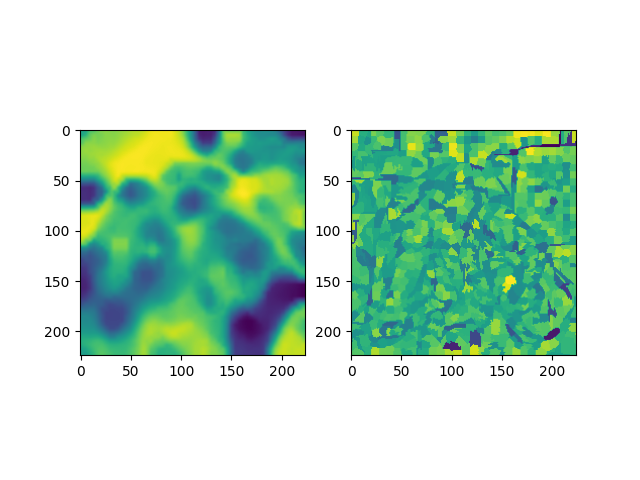
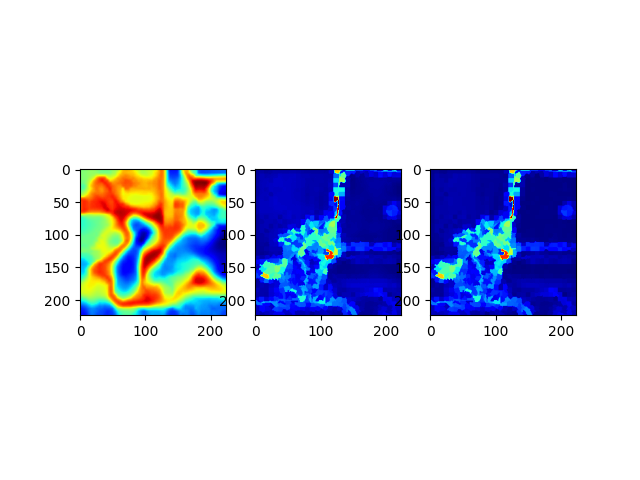
边的权重图，优化

diff --git a/clip_self_correlation.py b/clip_self_correlation.py
@@ -188,7 +188,7 @@ def build_feature_rag(vit_features, image_size=(224, 224), patch_size=16):
 
 def smooth_uncertainty_with_rag(uncertainty, rag, superpixel_labels, lambda_=0.5, iterations=10):
     """
-    使用超像素 RAG 进行熵的拉普拉斯平滑。
+    使用超像素 RAG 进行区域级别的拉普拉斯平滑，而不是单独平均后再平滑。
 
     参数：
     - uncertainty: (H, W) 形状的不确定性熵
@@ -200,27 +200,39 @@ def smooth_uncertainty_with_rag(uncertainty, rag, superpixel_labels, lambda_=0.5
     返回：
     - smoothed_uncertainty: (H, W) 形状，平滑后的不确定性熵
     """
+    H, W = uncertainty.shape
     unique_labels = np.unique(superpixel_labels)
     num_superpixels = len(unique_labels)
 
-    # 计算每个超像素区域的初始均值熵
-    superpixel_uncertainty = np.zeros(num_superpixels)
-    for idx, label in enumerate(unique_labels):
-        mask = (superpixel_labels == label)
-        superpixel_uncertainty[idx] = uncertainty[mask].mean().item()  # 计算该超像素内的熵均值
+    # 创建超像素区域的熵映射
+    superpixel_uncertainty = uncertainty.copy()
 
-    # 获取 RAG 的邻接矩阵
+    # 超像素内部进行局部平滑
+    for _ in range(iterations):
+        new_uncertainty = superpixel_uncertainty.copy()
+
+        for label in unique_labels:
+            mask = (superpixel_labels == label)
+
+            # 仅在超像素内部进行平滑 (使用超像素内部均值)
+            if np.any(mask):
+                new_uncertainty[mask] = (1 - lambda_) * superpixel_uncertainty[mask] + lambda_ * superpixel_uncertainty[mask].mean()
+
+        superpixel_uncertainty = new_uncertainty
+
+    # 通过 RAG 进行超像素间的平滑
     L = nx.normalized_laplacian_matrix(rag).toarray()
+    superpixel_flat = np.array([superpixel_uncertainty[superpixel_labels == label].mean() for label in unique_labels])
 
     # 迭代拉普拉斯平滑
     for _ in range(iterations):
-        superpixel_uncertainty = (1 - lambda_) * superpixel_uncertainty + lambda_ * L @ superpixel_uncertainty
+        superpixel_flat = (1 - lambda_) * superpixel_flat + lambda_ * L @ superpixel_flat
 
     # 传播回像素级别
     smoothed_uncertainty = np.zeros_like(uncertainty)
     for idx, label in enumerate(unique_labels):
         mask = (superpixel_labels == label)
-        smoothed_uncertainty[mask] = superpixel_uncertainty[idx]
+        smoothed_uncertainty[mask] = superpixel_flat[idx]
 
     return smoothed_uncertainty
 
@@ -249,6 +261,65 @@ def adjust_posterior_with_entropy(P, H_opt, lambda_=1.0, epsilon=0.1):
     P_new = P_adj / np.sum(P_adj, axis=0, keepdims=True)
 
     return P_new
+
+def compute_superpixel_weights(rag, superpixel_labels):
+    """
+    计算每个超像素区域的总边权重
+    :param rag: Region Adjacency Graph
+    :param superpixel_labels: 超像素标签图
+    :return: 每个超像素区域的总边权重
+    """
+    # 计算每个节点的边权重之和
+    node_weights = {node: sum(rag[node][nbr]['weight'] for nbr in rag.neighbors(node)) for node in rag.nodes()}
+    
+    # 计算每个超像素区域的总边权重
+    superpixel_weights = {node: node_weights[node] for node in rag.nodes()}
+    
+    return superpixel_weights
+
+def compute_superpixel_max(rag, superpixel_labels):
+    """
+    计算每个超像素区域的总边权重
+    :param rag: Region Adjacency Graph
+    :param superpixel_labels: 超像素标签图
+    :return: 每个超像素区域的总边权重
+    """
+    # 计算每个节点的边权重之和
+    node_weights = {node: max(rag[node][nbr]['weight'] for nbr in rag.neighbors(node)) for node in rag.nodes()}
+    
+    # 计算每个超像素区域的总边权重
+    superpixel_weights = {node: node_weights[node] for node in rag.nodes()}
+    
+    return superpixel_weights
+
+def visualize_superpixel_weights(image, superpixel_labels, superpixel_weights):
+    """
+    可视化超像素区域的边权重之和
+    :param image: 原始图像
+    :param superpixel_labels: 超像素标签
+    :param superpixel_weights: 每个超像素的边权重之和
+    """
+    # 归一化超像素边权重到 0-1
+    max_weight = max(superpixel_weights.values())
+    min_weight = min(superpixel_weights.values())
+    
+    norm_weights = {sp: (superpixel_weights[sp] - min_weight) / (max_weight - min_weight) for sp in superpixel_weights}
+    
+    # 生成颜色映射
+    cmap = plt.cm.viridis
+    colored_seg = np.zeros_like(image, dtype=np.float32)
+
+    for sp in np.unique(superpixel_labels):
+        mask = superpixel_labels == sp
+        color = cmap(norm_weights[sp])[:3]  # 获取 RGB 颜色
+        colored_seg[mask] = color
+    
+    # 显示图像
+    plt.figure(figsize=(10, 6))
+    plt.imshow(colored_seg)
+    plt.axis('off')
+    plt.title("Superpixel Edge Weight Sums")
+    plt.show()
 
 def self_clip(clip, dataset, image_size=224,eps=0.7,min=3):
     # text feature
@@ -343,15 +414,41 @@ def self_clip(clip, dataset, image_size=224,eps=0.7,min=3):
             cluster_gts.unsqueeze(0),size=(image_size,image_size),mode='bilinear',align_corners=False
         )[0] # n,H,W
 
-        # 基于熵的拉普拉斯平滑 后验预测概率
+        # 基于rag的边的权重，certainty map，去修正模型预测结果的不确定性，再温度修正预测后验概率
         #############################
         rag, superpixel_labels = build_color_rag(np.array(ori_images), n_segments=1000, compactness=10)
         p_ = cluster_gts.softmax(dim=0)
         uncertainty = -torch.sum(p_ * torch.log(p_), dim=0)
 
-        smoothed_uncertainty = smooth_uncertainty_with_rag(uncertainty.detach().cpu().numpy(), rag, superpixel_labels, lambda_=0.5, iterations=1)
-        cluster_gts = adjust_posterior_with_entropy(p_.detach().cpu().numpy(), smoothed_uncertainty)
-        cluster_gts = torch.as_tensor(cluster_gts).to("cuda")
+        # smoothed_uncertainty = smooth_uncertainty_with_rag(uncertainty.detach().cpu().numpy(), rag, superpixel_labels, lambda_=0.5, iterations=1)
+        # cluster_gts = adjust_posterior_with_entropy(p_.detach().cpu().numpy(), smoothed_uncertainty, lambda_=1, epsilon=0.1)
+        # cluster_gts = torch.as_tensor(cluster_gts).to("cuda")
+
+        superpixel_weights = compute_superpixel_weights(rag, superpixel_labels)
+        max_weight = np.max(list(superpixel_weights.values()))
+        min_weight = np.min(list(superpixel_weights.values()))
+        
+        norm_weights = {sp: (superpixel_weights[sp] - min_weight) / (max_weight - min_weight) for sp in superpixel_weights}
+        
+        edge_seg = np.zeros(uncertainty.shape, dtype=np.float32)
+        for patch_id in range(len(np.unique(superpixel_labels))):
+            mask = (superpixel_labels == patch_id)
+            edge_seg[mask] = norm_weights[patch_id]
+
+        uncertainty_weighted = uncertainty + uncertainty * torch.tensor(edge_seg).to("cuda")
+
+        cluster_gts = adjust_posterior_with_entropy(p_.detach().cpu().numpy(), uncertainty_weighted.detach().cpu().numpy(), lambda_=1, epsilon=0.1)
+        cluster_gts = torch.as_tensor(cluster_gts).to("cuda")        
+
+        
+        # plt.figure()
+        # plt.subplot(1,3,1)
+        # plt.imshow(uncertainty.detach().cpu().numpy(), cmap='jet')
+        # plt.subplot(1,3,2)
+        # plt.imshow((uncertainty * torch.tensor(edge_seg).to("cuda")).detach().cpu().numpy(), cmap='jet') 
+        # plt.subplot(1,3,3)
+        # plt.imshow(edge_seg, cmap='jet')
+        # plt.savefig("x.png")       
         #############################
 
         cluster_gts = cluster_gts.argmax(dim=0)
